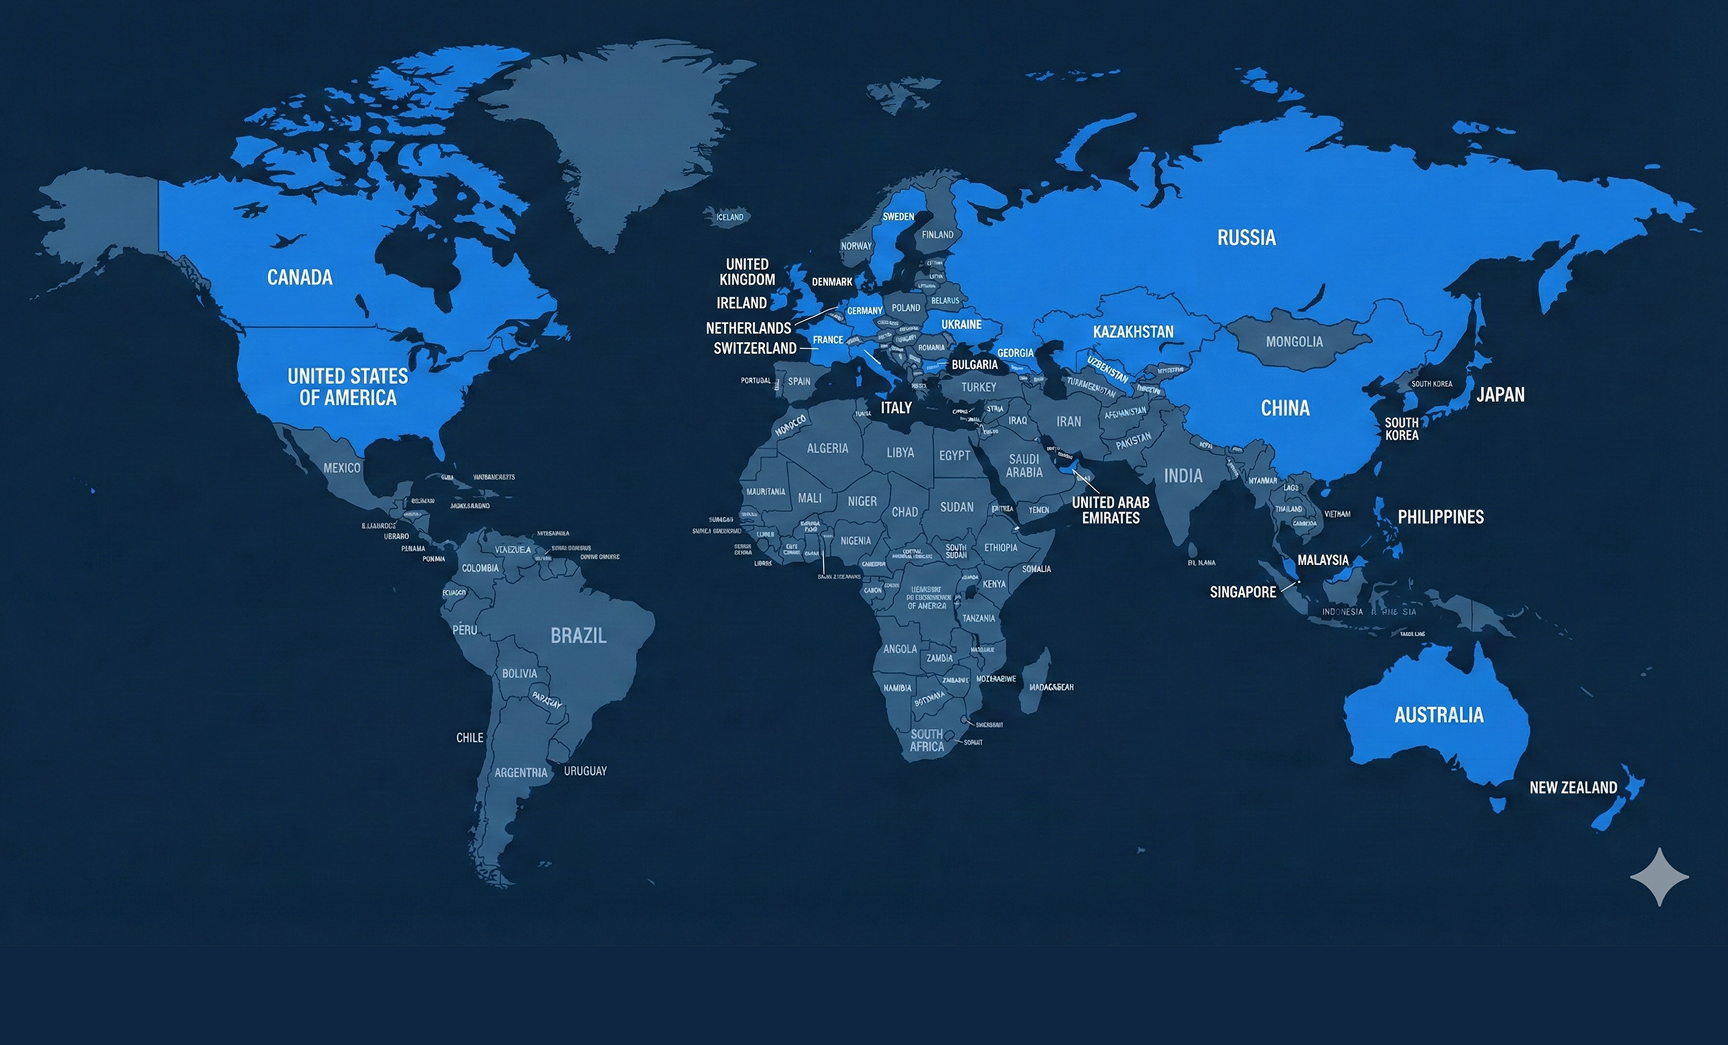
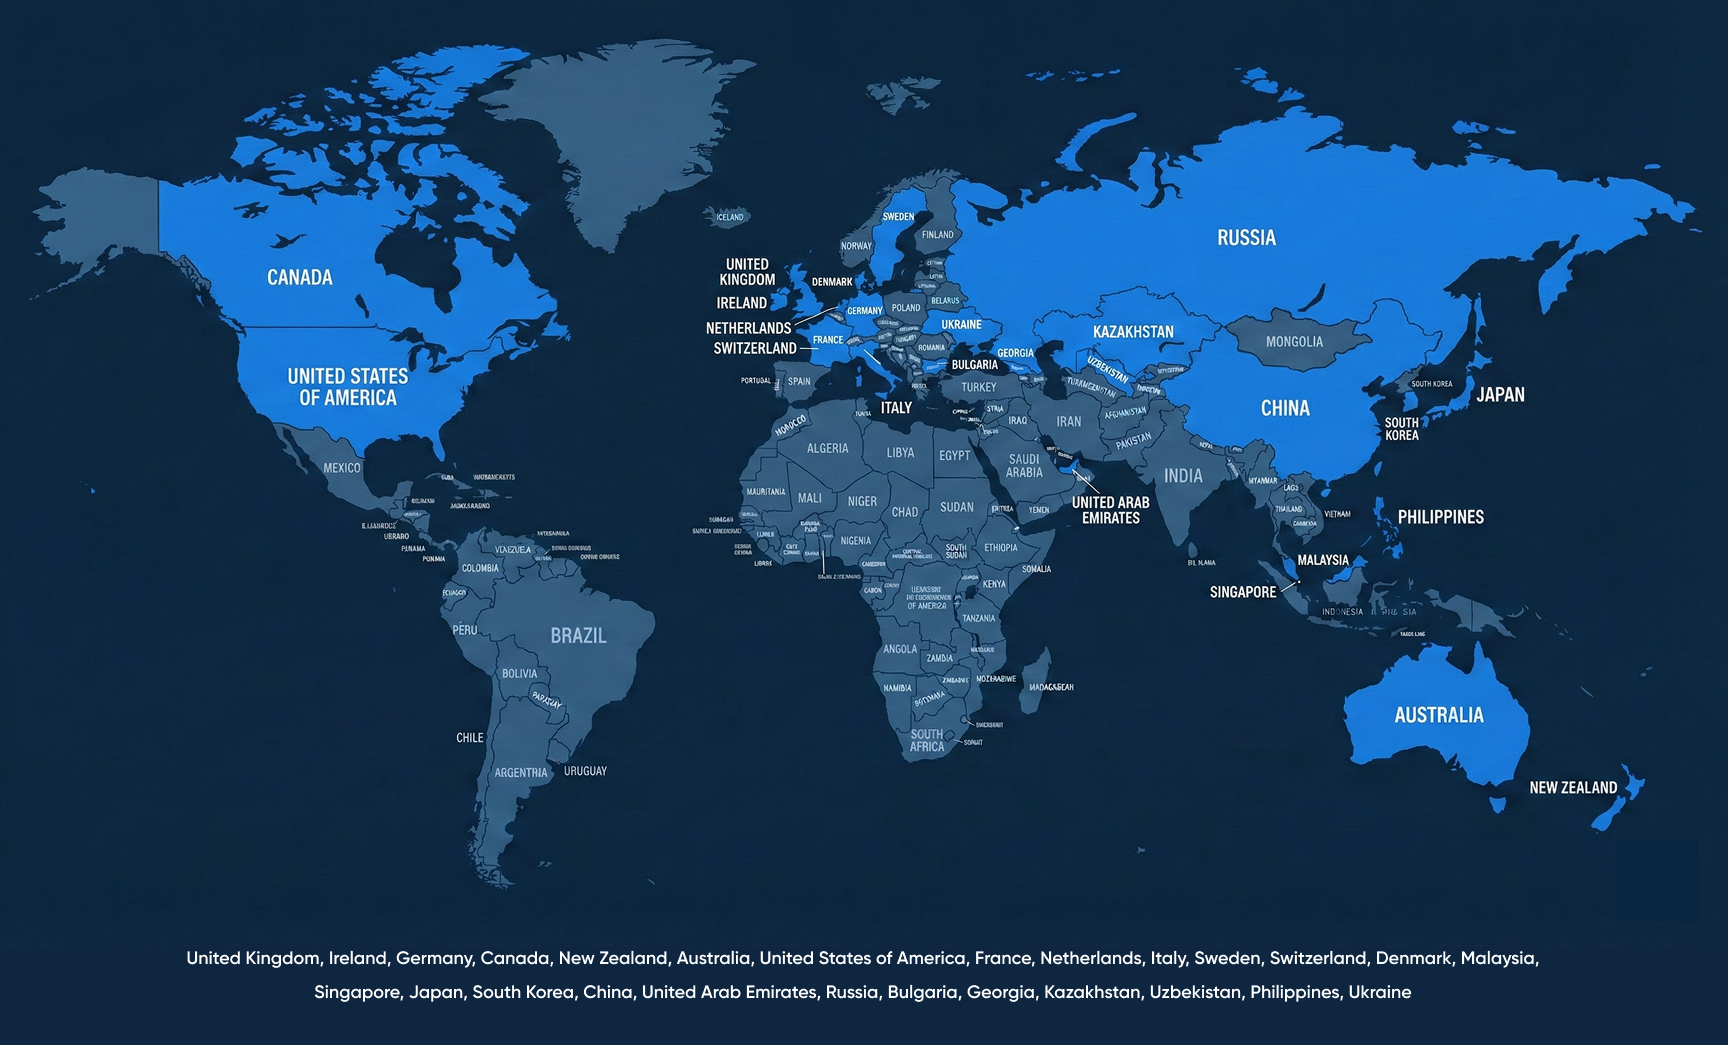
changes done

Changed region(s): [[0.125, 0.888, 0.875, 0.9799], [0.9375, 0.8268, 0.9688, 0.8574]]

diff --git a/src/components/services/studyabroad/UniversityDisciplines.tsx b/src/components/services/studyabroad/UniversityDisciplines.tsx
@@ -377,12 +377,12 @@ const UniversityDisciplines: React.FC = () => {
           </div>
         </div>
       </section>
-      <section className='relative'>
+      <section className='relative max-w-7xl mx-auto'>
         <img src={mapimg} alt='map-image' />
-        <div className='absolute bottom-10 xl:px-[140px] lg:px-[100px] md:px-[50px]'> <p className='text-primary-white text-[14px]  text-center'>United Kingdom, Ireland, Germany, Canada, New Zealand, Australia, United States of America, France, Netherlands, Italy, Sweden, Switzerland, Denmark, Malaysia, Singapore, Japan, South Korea, China, United Arab Emirates, Russia, Bulgaria, Georgia, Kazakhstan, Uzbekistan, Philippines, Ukraine</p></div>
+        {/* <div className='absolute bottom-10 xl:px-[140px] lg:px-[100px] md:px-[50px]'> <p className='text-primary-white text-[14px]  text-center'>United Kingdom, Ireland, Germany, Canada, New Zealand, Australia, United States of America, France, Netherlands, Italy, Sweden, Switzerland, Denmark, Malaysia, Singapore, Japan, South Korea, China, United Arab Emirates, Russia, Bulgaria, Georgia, Kazakhstan, Uzbekistan, Philippines, Ukraine</p></div> */}
       </section>
       <SecurityAndPartners/>
-      <section className="relative w-full mx-auto py-20 bg-white overflow-hidden">
+      <section className="relative max-w-7xl mx-auto py-20 bg-white overflow-hidden">
         {/* Header Section */}
         <div className="xl:mb-12 md:mb-0 xl:pl-20 md:pl-10 pl-5">
           <h2 className="text-3xl md:text-4xl font-bold text-[#002147] leading-tight max-w-md">
@@ -455,7 +455,7 @@ const UniversityDisciplines: React.FC = () => {
         </div>
       </section>
       <section className='max-w-7xl mx-auto px-4 py-12'>
-        <div className="bg-[#ED1A3A] text-white p-8 md:p-12 rounded-[30px] flex flex-col md:flex-row items-center justify-between gap-8 relative overflow-hidden">
+        <div className="bg-[#C61C30] text-white p-8 md:p-12 rounded-[30px] flex flex-col md:flex-row items-center justify-between gap-8 relative overflow-hidden">
           {/* Left Side: Logo */}
           <div className="text-6xl md:text-8xl font-black tracking-tighter">
             IELTS<span className="text-sm font-normal align-top text-primary-navyblue">™</span>
